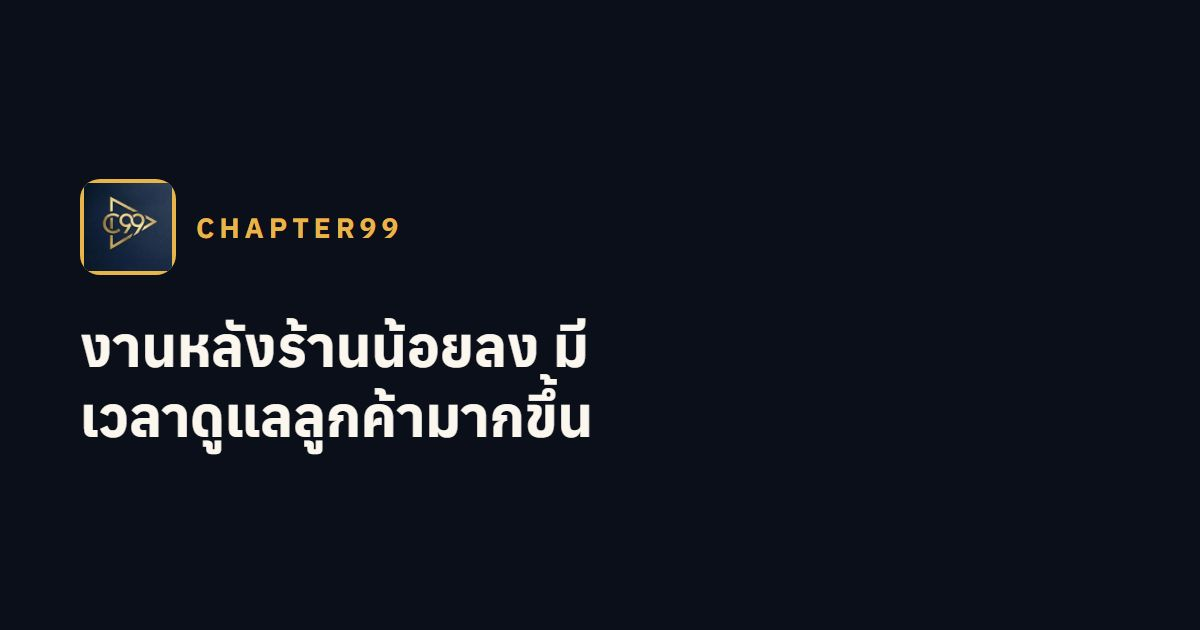
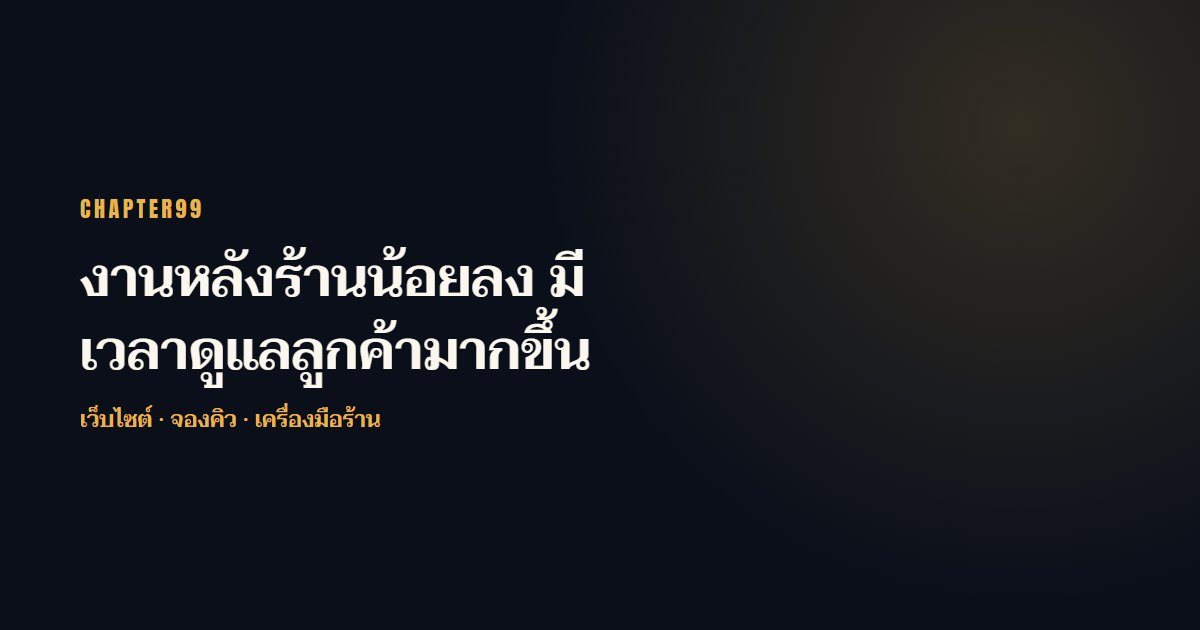
Thai fonts: Taviraj + Noto Sans Thai Looped

Changed region(s): [[0.0617, 0.2714, 0.4933, 0.7238], [0.7092, 0.0, 1.0, 0.4825]]

diff --git a/public/demo/demo-booking.html b/public/demo/demo-booking.html
@@ -1,32 +1,32 @@
-<!doctype html><html lang="th"><head><meta charset="utf-8"><meta name="viewport" content="width=device-width,initial-scale=1">
+<!doctype html><html lang="th"><head><meta charset="utf-8"><meta name="viewport" content="width=device-width,initial-scale=1">
 <title>DEMO · Sabai Thai Massage</title>
-<link href="https://fonts.googleapis.com/css2?family=Anuphan:wght@500;600&family=IBM+Plex+Sans+Thai:wght@400;500&display=swap" rel="stylesheet">
+<link href="https://fonts.googleapis.com/css2?family=Taviraj:wght@500;600&family=Noto+Sans+Thai+Looped:wght@400;500&display=swap" rel="stylesheet">
 <style>
 /* เว็บร้านนวดสมมติ (DEMO) — กดจองได้จริงในหน้า แต่ไม่ส่งข้อมูลไปไหน */
 *{box-sizing:border-box;margin:0;padding:0}
-body{font-family:"IBM Plex Sans Thai",sans-serif;background:#FBF7EE;color:#2B2116;max-width:480px;margin:0 auto;min-height:100vh}
+body{font-family:"Noto Sans Thai Looped",sans-serif;background:#FBF7EE;color:#2B2116;max-width:480px;margin:0 auto;min-height:100vh}
 .bar{position:sticky;top:0;z-index:5;display:flex;justify-content:space-between;align-items:center;padding:14px 18px;background:#fff;border-bottom:1px solid #EFE6D4}
-.bar b{font-family:Anuphan;color:#7A4E1D;font-size:19px}
+.bar b{font-family:Taviraj;color:#7A4E1D;font-size:19px}
 .demo{background:#2B2116;color:#fff;font-size:11px;font-weight:600;letter-spacing:.1em;padding:4px 8px;border-radius:6px}
 .scr{display:none;padding:18px}.scr.on{display:block;animation:in .35s ease}
 @keyframes in{from{opacity:0;transform:translateX(14px)}to{opacity:1;transform:none}}
 .crumb{font-size:13px;color:#8a7a66;margin-bottom:12px}
 .hero{border-radius:14px;overflow:hidden;aspect-ratio:4/3;background:#ddd}.hero img{width:100%;height:100%;object-fit:cover}
-h1{font-family:Anuphan;font-size:24px;margin:14px 0 4px}
+h1{font-family:Taviraj;font-size:24px;margin:14px 0 4px}
 .meta{color:#7A4E1D;font-weight:600}
 p{color:#6b5a48;font-size:15px;margin-top:8px}
 .svc{display:grid;gap:10px;margin-top:16px}
 .svc label{display:flex;justify-content:space-between;align-items:center;background:#fff;border:1.5px solid #EFE6D4;border-radius:12px;padding:14px;cursor:pointer;font-size:16px}
 .svc input{accent-color:#7A4E1D;margin-right:10px}
 .svc label:has(input:checked){border-color:#7A4E1D;background:#FFF8E8}
-.btn{display:block;width:100%;margin-top:18px;min-height:52px;border:0;border-radius:10px;background:#A0713A;color:#fff;font-family:Anuphan;font-size:17px;cursor:pointer}
+.btn{display:block;width:100%;margin-top:18px;min-height:52px;border:0;border-radius:10px;background:#A0713A;color:#fff;font-family:Taviraj;font-size:17px;cursor:pointer}
 .btn:disabled{opacity:.4}
 .btn.ghost{background:#fff;color:#2B2116;border:1.5px solid #EFE6D4}
 .days{display:grid;grid-template-columns:repeat(7,1fr);gap:6px;margin:14px 0}
 .day{border:0;background:#fff;border-radius:10px;padding:8px 0;font-size:13px;color:#2B2116;cursor:pointer}
 .day b{display:block;font-size:17px}
 .day.on{background:#2B2116;color:#fff}.day:disabled{color:#c8bba8}
-h3{font-family:Anuphan;font-size:16px;margin:16px 0 8px}
+h3{font-family:Taviraj;font-size:16px;margin:16px 0 8px}
 .slots{display:grid;grid-template-columns:repeat(3,1fr);gap:8px}
 .slot{border:0;background:#F1EADB;border-radius:8px;padding:12px 0;font-size:15px;cursor:pointer}
 .slot.on{background:#A0713A;color:#fff}

diff --git a/public/mockup/index.html b/public/mockup/index.html
@@ -1,4 +1,4 @@
-<!doctype html>
+<!doctype html>
 <html lang="th">
 <head>
 <meta charset="utf-8">
@@ -7,8 +7,8 @@
 <title>CHAPTER99 — ให้ร้านไทยในออสฯ ดูดีและขายได้จริง</title>
 <link rel="preconnect" href="https://fonts.googleapis.com">
 <link rel="preconnect" href="https://fonts.gstatic.com" crossorigin>
-<!-- Anton = หัวข้ออังกฤษตัวหนาแคบ, Anuphan = หัวข้อไทยตัวหนา, Sora/JetBrains Mono/IBM Plex Sans Thai = ตัวเนื้อหา -->
-<link href="https://fonts.googleapis.com/css2?family=Anton&family=Anuphan:wght@500;600;700&family=Sora:wght@200;300;400;600&family=JetBrains+Mono:wght@300;400;500;700&family=IBM+Plex+Sans+Thai:wght@300;400;500;600&display=swap" rel="stylesheet">
+<!-- Anton = หัวข้ออังกฤษตัวหนาแคบ, Taviraj = หัวข้อไทยตัวหนา, Sora/JetBrains Mono/Noto Sans Thai Looped = ตัวเนื้อหา -->
+<link href="https://fonts.googleapis.com/css2?family=Anton&family=Taviraj:wght@500;600;700&family=Sora:wght@200;300;400;600&family=JetBrains+Mono:wght@300;400;500;700&family=Noto+Sans+Thai+Looped:wght@300;400;500;600&display=swap" rel="stylesheet">
 <style>
 /* ===================== TOKENS: ขาว-ดำ-น้ำเงินกรมท่า ===================== */
 :root{
@@ -18,10 +18,10 @@
   --fill-ghost:rgba(11,31,58,.06);--ghost-hover:rgba(11,31,58,.12);
   --solid-bg:var(--navy);--solid-fg:#fff;--solid-hover:var(--navy-2);--accent:var(--navy);
   --gutter:clamp(20px,5vw,100px);--ease:cubic-bezier(.16,1,.3,1);
-  --f-big:"Anton","Anuphan",Impact,sans-serif;
-  --f-th:"Anuphan","IBM Plex Sans Thai",sans-serif;
-  --f-body:"Sora","IBM Plex Sans Thai","Helvetica Neue",Arial,sans-serif;
-  --f-mono:"JetBrains Mono","IBM Plex Sans Thai",ui-monospace,Menlo,monospace;
+  --f-big:"Anton","Taviraj",Impact,sans-serif;
+  --f-th:"Taviraj","Noto Sans Thai Looped",sans-serif;
+  --f-body:"Sora","Noto Sans Thai Looped","Helvetica Neue",Arial,sans-serif;
+  --f-mono:"JetBrains Mono","Noto Sans Thai Looped",ui-monospace,Menlo,monospace;
 }
 /* บล็อกพื้นเข้มใช้ token ชุดนี้ */
 .dark{--text:#fff;--text-dim:rgba(255,255,255,.7);--text-dimmer:rgba(255,255,255,.5);
@@ -230,7 +230,7 @@ img{display:block;max-width:100%}
 @media (prefers-reduced-motion:reduce){*,*::before,*::after{transition-duration:.01ms!important;animation-duration:.01ms!important}.rv{opacity:1;transform:none}}
 
 /* ===================== อ่านง่ายสำหรับผู้ใหญ่ (override) =====================
-   - ปุ่มและเมนูใช้ฟอนต์ไทย Anuphan ตัวใหญ่ ไม่ห่างตัวอักษร
+   - ปุ่มและเมนูใช้ฟอนต์ไทย Taviraj ตัวใหญ่ ไม่ห่างตัวอักษร
    - ตัวหนังสือเนื้อหาอย่างน้อย 17px, ตัวเล็กสุด 14px
    - เพิ่มความเข้มสีตัวหนังสือรอง ให้ตัดกับพื้นชัดขึ้น */
 :root{--text-dim:rgba(10,10,10,.78);--text-dimmer:rgba(10,10,10,.62)}

diff --git a/src/styles/home-v7.css b/src/styles/home-v7.css
@@ -10,15 +10,15 @@
   --dim: #5a5f6b;
   --line: #e7e1d3;
   --f-big: "Anton", Impact, sans-serif;
-  --f-th: "Anuphan", "IBM Plex Sans Thai", sans-serif;
-  --f-body: "IBM Plex Sans Thai", system-ui, sans-serif;
+  --f-th: "Taviraj", "Noto Serif Thai", serif;
+  --f-body: "Noto Sans Thai Looped", "Noto Sans Thai", sans-serif;
   --f-mono: "IBM Plex Mono", ui-monospace, monospace;
   --gutter: clamp(18px, 5vw, 88px);
   --ease: cubic-bezier(0.16, 1, 0.3, 1);
   --max: 1280px;
   font-family: var(--f-body);
   font-size: 18px;
-  line-height: 1.7;
+  line-height: 1.75;
   color: var(--text);
   background: var(--paper);
   -webkit-font-smoothing: antialiased;
@@ -74,11 +74,16 @@
 .home-v7 h1,
 .home-v7 h2,
 .home-v7 h3 {
-  line-height: 1.25;
+  font-family: var(--f-th);
+  font-weight: 600;
+  line-height: 1.35;
+  letter-spacing: 0;
+  overflow: visible;
   overflow-wrap: anywhere;
   line-break: auto;
   word-break: normal;
   max-width: 100%;
+  padding-block: 0.1em;
 }
 .home-v7 .big {
   font-family: var(--f-big);
@@ -89,10 +94,10 @@
 }
 .home-v7 .th2 {
   font-family: var(--f-th);
-  font-weight: 700;
+  font-weight: 600;
   font-size: clamp(30px, 3.4vw, 48px);
-  letter-spacing: -0.01em;
-  line-height: 1.25;
+  letter-spacing: 0;
+  line-height: 1.35;
 }
 .home-v7 .sub {
   color: var(--dim);
@@ -125,7 +130,7 @@
   min-width: 44px;
   padding: 14px 24px;
   border-radius: 8px;
-  font-family: var(--f-th);
+  font-family: var(--f-body);
   font-weight: 600;
   font-size: 17px;
   cursor: pointer;
@@ -160,6 +165,17 @@
   background: #fcefd0;
   color: var(--ink);
 }
+.home-v7 button,
+.home-v7 .dtabs button,
+.home-v7 .dfood__open,
+.home-v7 .price-seg button,
+.home-v7 .price-lang button,
+.home-v7 .price-faq summary,
+.home-v7 .price-square summary,
+.home-v7 .mnav a {
+  font-family: var(--f-body);
+  font-weight: 600;
+}
 .home-v7 .btn .play {
   width: 26px;
   height: 26px;
@@ -191,8 +207,8 @@
   min-height: 44px;
   min-width: 44px;
   color: #fff;
-  font-family: var(--f-th);
-  font-weight: 500;
+  font-family: var(--f-body);
+  font-weight: 600;
   letter-spacing: 0.14em;
 }
 .home-v7 .logo img {
@@ -204,7 +220,8 @@
 .home-v7 .menu {
   display: flex;
   gap: 30px;
-  font-family: var(--f-th);
+  font-family: var(--f-body);
+  font-weight: 600;
   font-size: 16px;
   color: rgba(255, 255, 255, 0.88);
 }
@@ -306,9 +323,10 @@
 .home-v7 .hero h1,
 .home-v7 .hero h1.hero__title {
   color: #fff;
-  font-size: clamp(36px, 5vw, 56px);
+  font-size: clamp(36px, 4.2vw, 64px);
   font-weight: 600;
-  line-height: 1.3;
+  line-height: 1.35;
+  letter-spacing: 0;
   margin: 16px 0 18px;
 }
 .home-v7 .hero h1 em {
@@ -1551,9 +1569,10 @@
   }
   .home-v7 .hero h1,
   .home-v7 .hero h1.hero__title {
-    font-size: clamp(30px, 8.4vw, 38px);
+    font-size: clamp(30px, 8vw, 38px);
     font-weight: 600;
-    line-height: 1.3;
+    line-height: 1.35;
+    letter-spacing: 0;
   }
   .home-v7 .hero__cta {
     width: 100%;

diff --git a/public/mockup/v7/index.html b/public/mockup/v7/index.html
@@ -6,15 +6,15 @@
 <title>Chapter99 — Less admin. More time for customers.</title>
 <meta name="description" content="Chapter99 ช่วยร้านไทยในออสเตรเลียมีเว็บไซต์ ระบบจองคิว และเครื่องมือจัดการร้าน — คุยภาษาไทย ตั้งค่าให้ครบ">
 <link rel="preconnect" href="https://fonts.googleapis.com"><link rel="preconnect" href="https://fonts.gstatic.com" crossorigin>
-<!-- Anton = EN display, Anuphan = Thai headings, IBM Plex Sans Thai = body, IBM Plex Mono = labels -->
+<!-- Anton = EN display, Taviraj = Thai headings, Noto Sans Thai Looped = body, IBM Plex Mono = labels -->
 <link rel="preload" as="image" href="/mockup/media/web/cta-spa.webp" fetchpriority="high">
-<link href="https://fonts.googleapis.com/css2?family=Anton&family=Anuphan:wght@500;600;700&family=IBM+Plex+Mono:wght@500&family=IBM+Plex+Sans+Thai:wght@400;500&display=swap" rel="stylesheet">
+<link href="https://fonts.googleapis.com/css2?family=Anton&family=IBM+Plex+Mono:wght@500&family=Noto+Sans+Thai+Looped:wght@400;500;600&family=Taviraj:wght@500;600&display=swap" rel="stylesheet">
 <style>
 /* ===================== TOKENS: กรมท่าเข้ม + ทอง (สีเดียวกับโลโก้) + ครีม ===================== */
 :root{
   --ink:#0A0F1A;--navy:#0B1F3A;--navy-2:#132A4A;--gold:#E8B54A;--gold-2:#F4CD72;--cream:#FBF7EE;--paper:#fff;
   --text:#14161C;--dim:#5A5F6B;--line:#E7E1D3;
-  --f-big:"Anton",Impact,sans-serif;--f-th:"Anuphan","IBM Plex Sans Thai",sans-serif;--f-body:"IBM Plex Sans Thai",system-ui,sans-serif;--f-mono:"IBM Plex Mono",ui-monospace,monospace;
+  --f-big:"Anton",Impact,sans-serif;--f-th:"Taviraj","Noto Serif Thai",serif;--f-body:"Noto Sans Thai Looped","Noto Sans Thai",sans-serif;--f-mono:"IBM Plex Mono",ui-monospace,monospace;
   --gutter:clamp(18px,5vw,88px);--ease:cubic-bezier(.16,1,.3,1);--max:1280px;
 }
 *{box-sizing:border-box;margin:0;padding:0}

diff --git a/public/mockup/v6/index.html b/public/mockup/v6/index.html
@@ -6,8 +6,8 @@
 <title>Chapter99 — เว็บไซต์และระบบจองสำหรับร้านไทยในออสเตรเลีย</title>
 <meta name="description" content="Chapter99 ทำเว็บไซต์และตั้งค่าระบบจองให้ร้านไทยในออสเตรเลีย คุยภาษาไทย เริ่มต้น A$199">
 <link rel="preconnect" href="https://fonts.googleapis.com"><link rel="preconnect" href="https://fonts.gstatic.com" crossorigin>
-<!-- Inter = ตัวอังกฤษ/ตัวเลข, IBM Plex Sans Thai = ตัวไทย, Oswald = โลโก้ตัวแคบ -->
-<link href="https://fonts.googleapis.com/css2?family=Inter:wght@400;500;600;700&family=IBM+Plex+Sans+Thai:wght@400;500;600;700&family=Oswald:wght@500&display=swap" rel="stylesheet">
+<!-- Inter = ตัวอังกฤษ/ตัวเลข, Noto Sans Thai Looped = ตัวไทย, Oswald = โลโก้ตัวแคบ -->
+<link href="https://fonts.googleapis.com/css2?family=Inter:wght@400;500;600;700&family=Noto+Sans+Thai+Looped:wght@400;500;600;700&family=Oswald:wght@500&display=swap" rel="stylesheet">
 <style>
 /* =========================================================
    V6 — แนวเรียบ มืออาชีพ (อ้างอิงงานดีไซน์ SaaS/บูติก)
@@ -18,7 +18,7 @@
   --bg:#F7F5F1;--paper:#FFFFFF;--ink:#16130F;--ink-2:#3B352D;--dim:#6E675D;--line:#E6E1D8;--soft:#F0ECE5;
   --brand:#9C6B35;--brand-2:#7F5427;--dark:#1E1D1F;--dark-2:#2A292C;
   --r:14px;--gutter:clamp(18px,5vw,72px);--max:1200px;--ease:cubic-bezier(.2,.8,.2,1);
-  --f:"Inter","IBM Plex Sans Thai",system-ui,sans-serif;
+  --f:"Inter","Noto Sans Thai Looped",system-ui,sans-serif;
 }
 *{box-sizing:border-box;margin:0;padding:0}
 html{scroll-behavior:smooth}

diff --git a/public/demo/demo-order.html b/public/demo/demo-order.html
@@ -1,14 +1,14 @@
-<!doctype html>
+<!doctype html>
 <html lang="th">
 <head>
 <meta charset="utf-8">
 <meta name="viewport" content="width=device-width,initial-scale=1">
 <title>DEMO · Baan Thai Kitchen</title>
-<link href="https://fonts.googleapis.com/css2?family=IBM+Plex+Sans+Thai:wght@400;600&family=Oswald:wght@500&display=swap" rel="stylesheet">
+<link href="https://fonts.googleapis.com/css2?family=Noto+Sans+Thai+Looped:wght@400;600&family=Oswald:wght@500&display=swap" rel="stylesheet">
 <style>
 *{box-sizing:border-box;margin:0;padding:0}
 html,body{overflow-x:hidden}
-body{font-family:"IBM Plex Sans Thai",sans-serif;background:#fff;color:#0A0F1A;max-width:480px;margin:0 auto;min-height:100vh;padding-bottom:24px}
+body{font-family:"Noto Sans Thai Looped",sans-serif;background:#fff;color:#0A0F1A;max-width:480px;margin:0 auto;min-height:100vh;padding-bottom:24px}
 .bar{position:sticky;top:0;background:#fff;display:flex;justify-content:space-between;align-items:center;padding:14px 18px;border-bottom:1px solid #EEE9E1;z-index:3;gap:8px}
 .bar b{font-family:Oswald,sans-serif;color:#0A0F1A;letter-spacing:.04em;font-size:16px}
 .demo{background:#0A0F1A;color:#E8B54A;font-size:11px;font-weight:600;padding:4px 8px;border-radius:6px;flex:0 0 auto}

diff --git a/public/mockup/v7/demo-order.html b/public/mockup/v7/demo-order.html
@@ -1,14 +1,14 @@
-<!doctype html>
+<!doctype html>
 <html lang="th">
 <head>
 <meta charset="utf-8">
 <meta name="viewport" content="width=device-width,initial-scale=1">
 <title>DEMO · Baan Thai Kitchen</title>
-<link href="https://fonts.googleapis.com/css2?family=IBM+Plex+Sans+Thai:wght@400;600&family=Oswald:wght@500&display=swap" rel="stylesheet">
+<link href="https://fonts.googleapis.com/css2?family=Noto+Sans+Thai+Looped:wght@400;600&family=Oswald:wght@500&display=swap" rel="stylesheet">
 <style>
 *{box-sizing:border-box;margin:0;padding:0}
 html,body{overflow-x:hidden}
-body{font-family:"IBM Plex Sans Thai",sans-serif;background:#fff;color:#0A0F1A;max-width:480px;margin:0 auto;min-height:100vh;padding-bottom:24px}
+body{font-family:"Noto Sans Thai Looped",sans-serif;background:#fff;color:#0A0F1A;max-width:480px;margin:0 auto;min-height:100vh;padding-bottom:24px}
 .bar{position:sticky;top:0;background:#fff;display:flex;justify-content:space-between;align-items:center;padding:14px 18px;border-bottom:1px solid #EEE9E1;z-index:3;gap:8px}
 .bar b{font-family:Oswald,sans-serif;color:#0A0F1A;letter-spacing:.04em;font-size:16px}
 .demo{background:#0A0F1A;color:#E8B54A;font-size:11px;font-weight:600;padding:4px 8px;border-radius:6px;flex:0 0 auto}

diff --git a/public/mockup/v6/demo-order.html b/public/mockup/v6/demo-order.html
@@ -1,13 +1,13 @@
-<!doctype html>
+<!doctype html>
 <html lang="th">
 <head>
 <meta charset="utf-8">
 <meta name="viewport" content="width=device-width,initial-scale=1">
 <title>DEMO · Baan Thai Kitchen</title>
-<link href="https://fonts.googleapis.com/css2?family=IBM+Plex+Sans+Thai:wght@400;600&family=Oswald:wght@500&display=swap" rel="stylesheet">
+<link href="https://fonts.googleapis.com/css2?family=Noto+Sans+Thai+Looped:wght@400;600&family=Oswald:wght@500&display=swap" rel="stylesheet">
 <style>
 *{box-sizing:border-box;margin:0;padding:0}
-body{font-family:"IBM Plex Sans Thai",sans-serif;background:#fff;color:#16130F;max-width:480px;margin:0 auto;min-height:100vh;padding-bottom:24px}
+body{font-family:"Noto Sans Thai Looped",sans-serif;background:#fff;color:#16130F;max-width:480px;margin:0 auto;min-height:100vh;padding-bottom:24px}
 .bar{position:sticky;top:0;background:#fff;display:flex;justify-content:space-between;align-items:center;padding:14px 18px;border-bottom:1px solid #EEE9E1;z-index:3;gap:8px}
 .bar b{font-family:Oswald,sans-serif;color:#9C6B35;letter-spacing:.04em;font-size:16px}
 .demo{background:#16130F;color:#fff;font-size:11px;font-weight:600;padding:4px 8px;border-radius:6px;flex:0 0 auto}

diff --git a/src/pages/HomeV7.test.tsx b/src/pages/HomeV7.test.tsx
@@ -1,3 +1,5 @@
+import { readFileSync } from 'node:fs'
+import { resolve } from 'node:path'
 import { cleanup, fireEvent, render, screen } from '@testing-library/react'
 import { MemoryRouter } from 'react-router-dom'
 import { afterEach, describe, expect, it } from 'vitest'
@@ -69,6 +71,19 @@ describe('/v7 homepage', () => {
       </MemoryRouter>,
     )
     expect(await screen.findByRole('heading', { level: 1 })).toHaveTextContent(v7Copy.th.heroHeadline)
+  })
+
+  it('uses Taviraj headings and Noto Sans Thai Looped body, not Anuphan', () => {
+    const css = readFileSync(resolve(__dirname, '../styles/home-v7.css'), 'utf8')
+    const html = readFileSync(resolve(__dirname, '../../index.html'), 'utf8')
+    expect(css).toMatch(/--f-th:\s*"Taviraj"/)
+    expect(css).toMatch(/--f-body:\s*"Noto Sans Thai Looped"/)
+    expect(css).not.toMatch(/Anuphan/)
+    expect(css).not.toMatch(/IBM Plex Sans Thai/)
+    expect(html).toMatch(/family=Taviraj/)
+    expect(html).toMatch(/family=Noto\+Sans\+Thai\+Looped/)
+    expect(html).not.toMatch(/Anuphan/)
+    expect(html).not.toMatch(/IBM\+Plex\+Sans\+Thai/)
   })
 
   it('opens the mobile menu from the burger', () => {

diff --git a/src/site/theme-navy.css b/src/site/theme-navy.css
@@ -7,8 +7,9 @@
   --c99-navy:#0B1F3A;--c99-navy-2:#13294B;--c99-ink:#0A0A0A;--c99-mist:#F3F5F8;--c99-sky:#9CC4FF;
   --navy:#0B1F3A;--navy2:#13294B;--blue:#0B1F3A;--blue2:#13294B;--ink:#0B1220;--soft:#F3F5F8;--line:#E3E7ED;
 }
-body{font-family:"IBM Plex Sans Thai","Sora",system-ui,sans-serif}
-h1,h2,h3,.brand strong{font-family:"Anuphan","IBM Plex Sans Thai",sans-serif;letter-spacing:-.01em}
+body{font-family:"Noto Sans Thai Looped","Noto Sans Thai",system-ui,sans-serif}
+h1,h2,h3,.brand strong{font-family:"Taviraj","Noto Serif Thai",serif;font-weight:600;letter-spacing:0;line-height:1.35;overflow:visible}
+.btn,.navcta,button,label,.navlinks a{font-family:"Noto Sans Thai Looped","Noto Sans Thai",sans-serif;font-weight:600}
 /* ปุ่มหลัก: มุมเหลี่ยม ตัวหนา อ่านง่าย */
 .navcta,.btn,.site-v2 .navcta,.header-cta-ghost,.drawer-cta-ghost{border-radius:0!important;font-weight:600}
 .navcta{transition:background .35s,color .35s,box-shadow .35s,transform .35s}

diff --git a/index.html b/index.html
@@ -5,7 +5,7 @@
     <link rel="icon" type="image/svg+xml" href="/favicon.svg" />
     <link rel="preconnect" href="https://fonts.googleapis.com" />
     <link rel="preconnect" href="https://fonts.gstatic.com" crossorigin />
-    <link href="https://fonts.googleapis.com/css2?family=Anton&family=Anuphan:wght@500;600;700&family=IBM+Plex+Sans+Thai:wght@400;500&family=IBM+Plex+Mono:wght@500&display=swap" rel="stylesheet" />
+    <link href="https://fonts.googleapis.com/css2?family=Anton&family=IBM+Plex+Mono:wght@500&family=Noto+Sans+Thai+Looped:wght@400;500;600&family=Taviraj:wght@500;600&display=swap" rel="stylesheet" />
     <meta name="viewport" content="width=device-width, initial-scale=1.0" />
     <meta name="theme-color" content="#0A0F1A" />
     <title>Chapter99 — งานหลังร้านน้อยลง มีเวลาดูแลลูกค้ามากขึ้น</title>

diff --git a/src/styles/v7-icons.css b/src/styles/v7-icons.css
@@ -18,7 +18,7 @@
   object-fit: contain;
 }
 .v7-icon-tile figcaption {
-  font-family: "Anuphan", "IBM Plex Sans Thai", sans-serif;
+  font-family: "Noto Sans Thai Looped", "Noto Sans Thai", sans-serif;
   font-size: 18px;
   line-height: 1.35;
   color: #fbf7ee;
@@ -28,7 +28,7 @@
   background: #fbf7ee;
   color: #0a0f1a;
   padding: 32px 20px 64px;
-  font-family: "IBM Plex Sans Thai", sans-serif;
+  font-family: "Noto Sans Thai Looped", "Noto Sans Thai", sans-serif;
 }
 .v7-icons-test h1 {
   font-family: Anton, Impact, sans-serif;
@@ -52,7 +52,7 @@
   border: 2px solid #0a0f1a;
   background: #fff;
   color: #0a0f1a;
-  font-family: "IBM Plex Sans Thai", sans-serif;
+  font-family: "Noto Sans Thai Looped", "Noto Sans Thai", sans-serif;
   font-size: 18px;
   border-radius: 999px;
   cursor: pointer;
